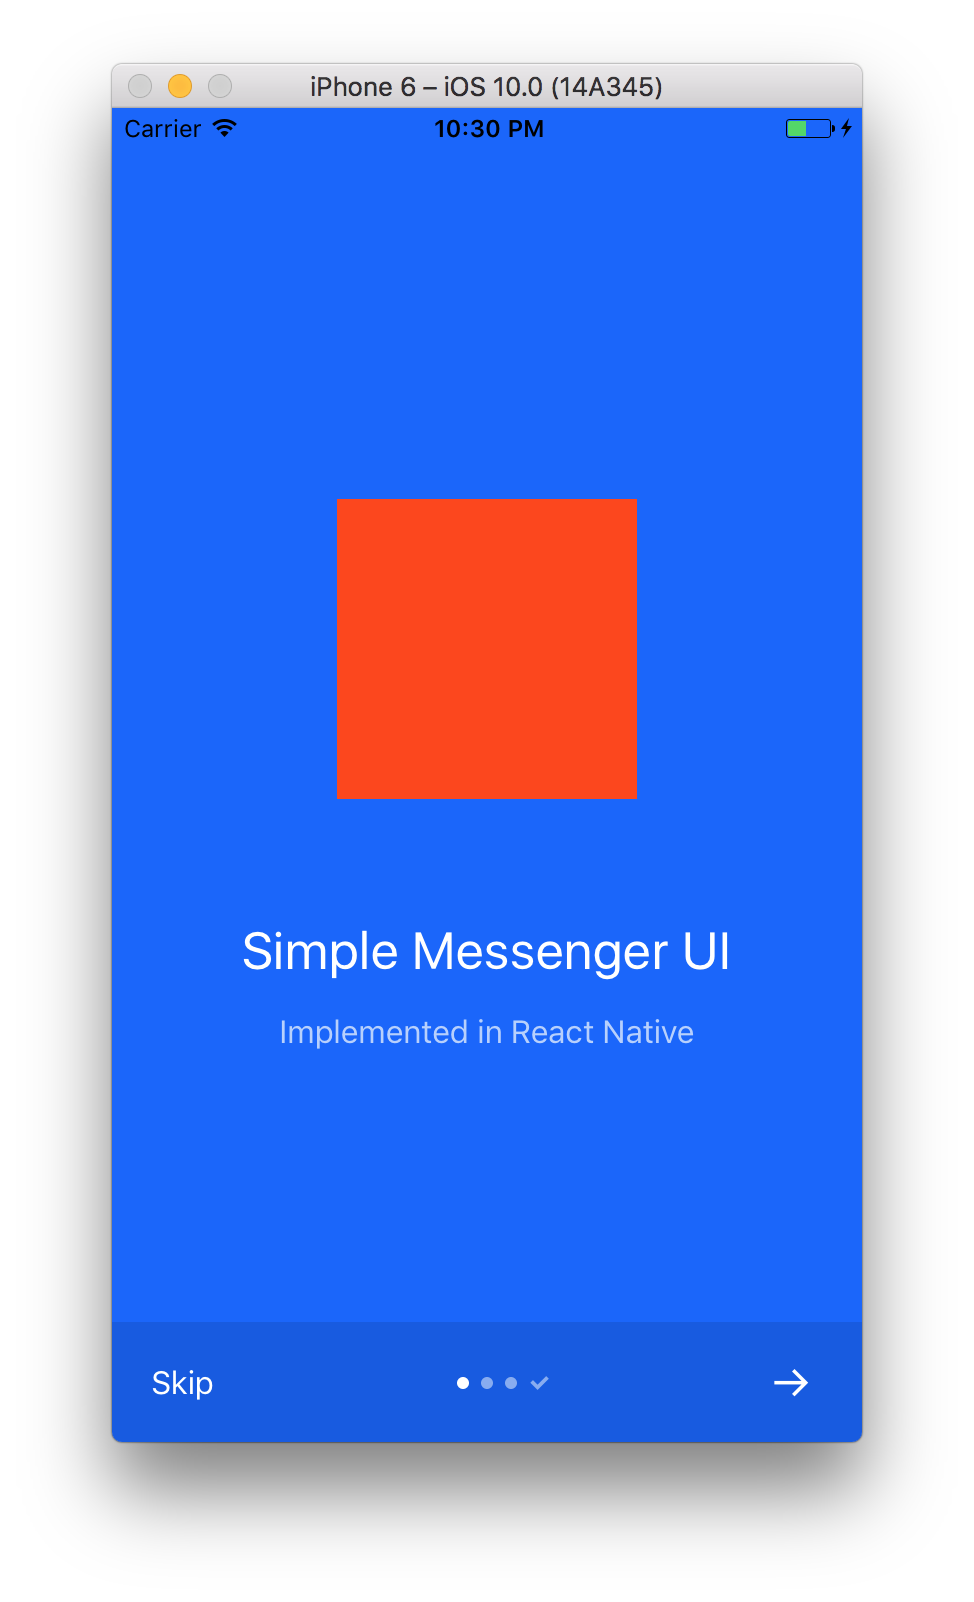
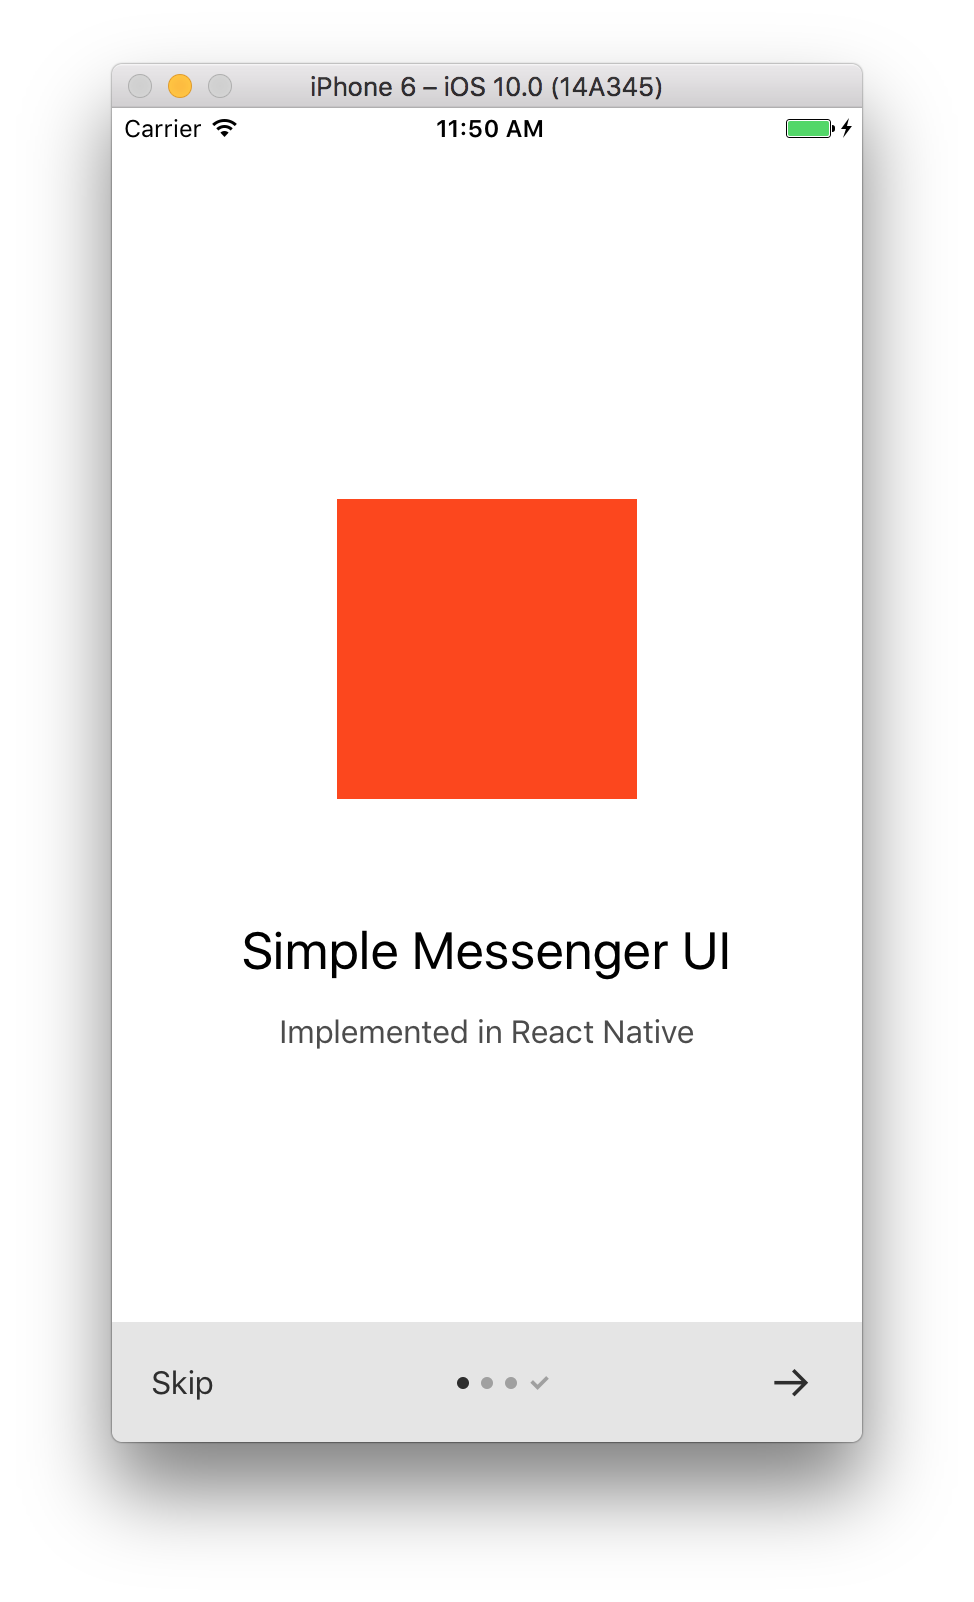
Minor readme updates

diff --git a/README.md b/README.md
@@ -8,11 +8,12 @@ Originally inspired by [AndroidOnboarder](https://github.com/chyrta/AndroidOnboa
 
 | ![](images/1.png) | ![](images/2.png) | ![](images/3.png) |
 | --- | --- | --- |
+| Adapts to bright backgrounds | and dark, too | shows the Done button |
 
 ```javascript
 <Onboarding
   pages={[
-    { backgroundColor: '#1060fe', image: <Square />, title: 'Simple Messenger UI', subtitle: 'Implemented in React Native' },
+    { backgroundColor: '#fff', image: <Square />, title: 'Simple Messenger UI', subtitle: 'Implemented in React Native' },
     { backgroundColor: "#fe6e58", image: <Circle />, title: 'Welcome', subtitle: 'To Earth' },
     { backgroundColor: "#999", image: <Square />, title: 'Also', subtitle: 'Mars is nice' },
   ]}
@@ -32,7 +33,7 @@ import Onboarding from 'react-native-simple-onboarding';
 
 ## Usage
 
-## `<Onboarding />`
+## `<Onboarding />` component
 
 Props:
 
